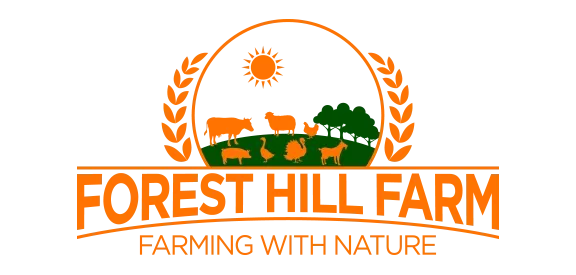
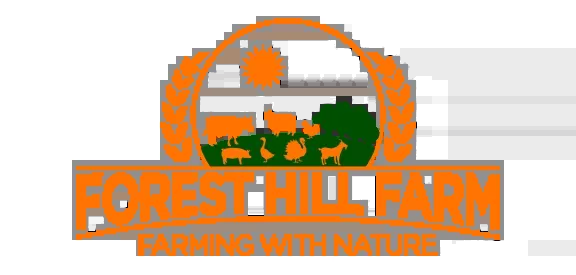
The share generator refuses to publish a blank preview
New Leaf Urban Farmers shipped an empty black Open Graph image because
New-OgImage skipped a photo that was not on disk and carried on with a
bare canvas. Nobody sees a bad preview until someone shares the link,
so a silent skip is the worst possible behaviour here. A missing or
unreadable photo now stops the run and names the producer.

The message points at WebP specifically, because System.Drawing cannot
read it whatever the file is called, and that is how the failure will
usually present.

Forest Hill Farm and The Rock Ballymacavany were the two remaining
WebP files wearing a .png extension. Both are re-encoded as real PNGs
under the same filenames, with the transparency rebuilt, so neither
trips the generator the day it is upgraded. Four producers still carry
honestly named .webp photos; all four are Discovered, and they now get
a clear error rather than a crash.

Every other share page and preview regenerated byte for byte.

Changed region(s): [[0.125, 0.0582, 1.0, 0.96]]

diff --git a/service-worker.js b/service-worker.js
@@ -1,4 +1,4 @@
-const CACHE = 'provenance-v741';
+const CACHE = 'provenance-v742';
 /* What the install downloads. The island artwork used to be in here, which
    made installing the app a 2MB download before it had drawn anything; it is
    cache-first like every other image, so it lands on first view instead and
